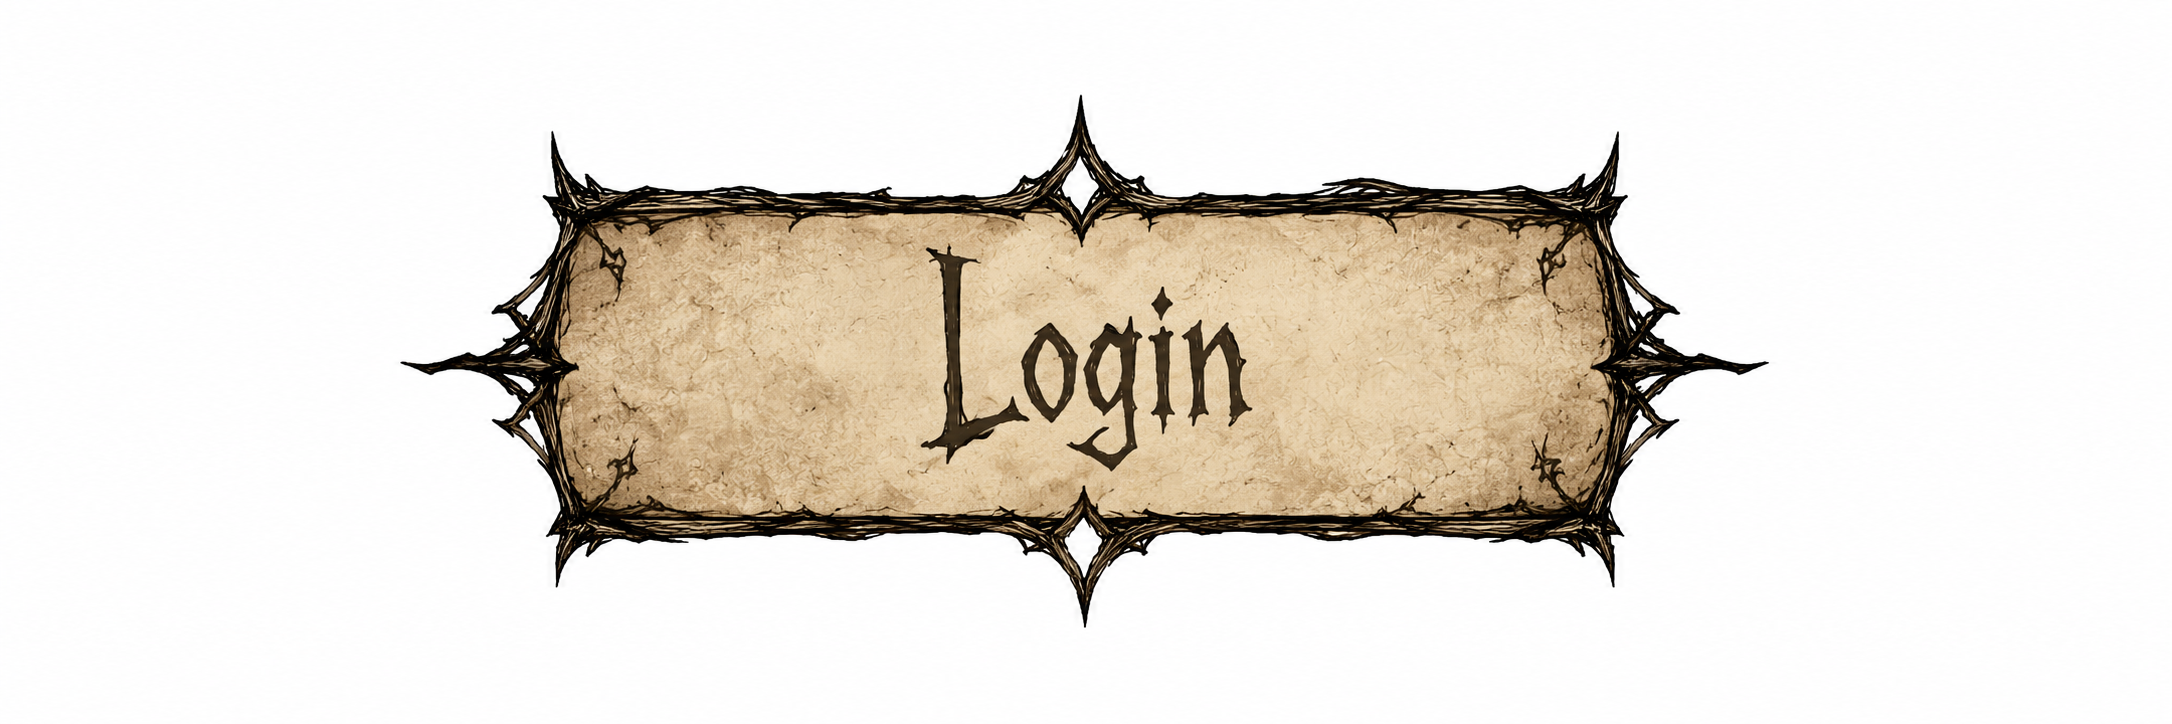
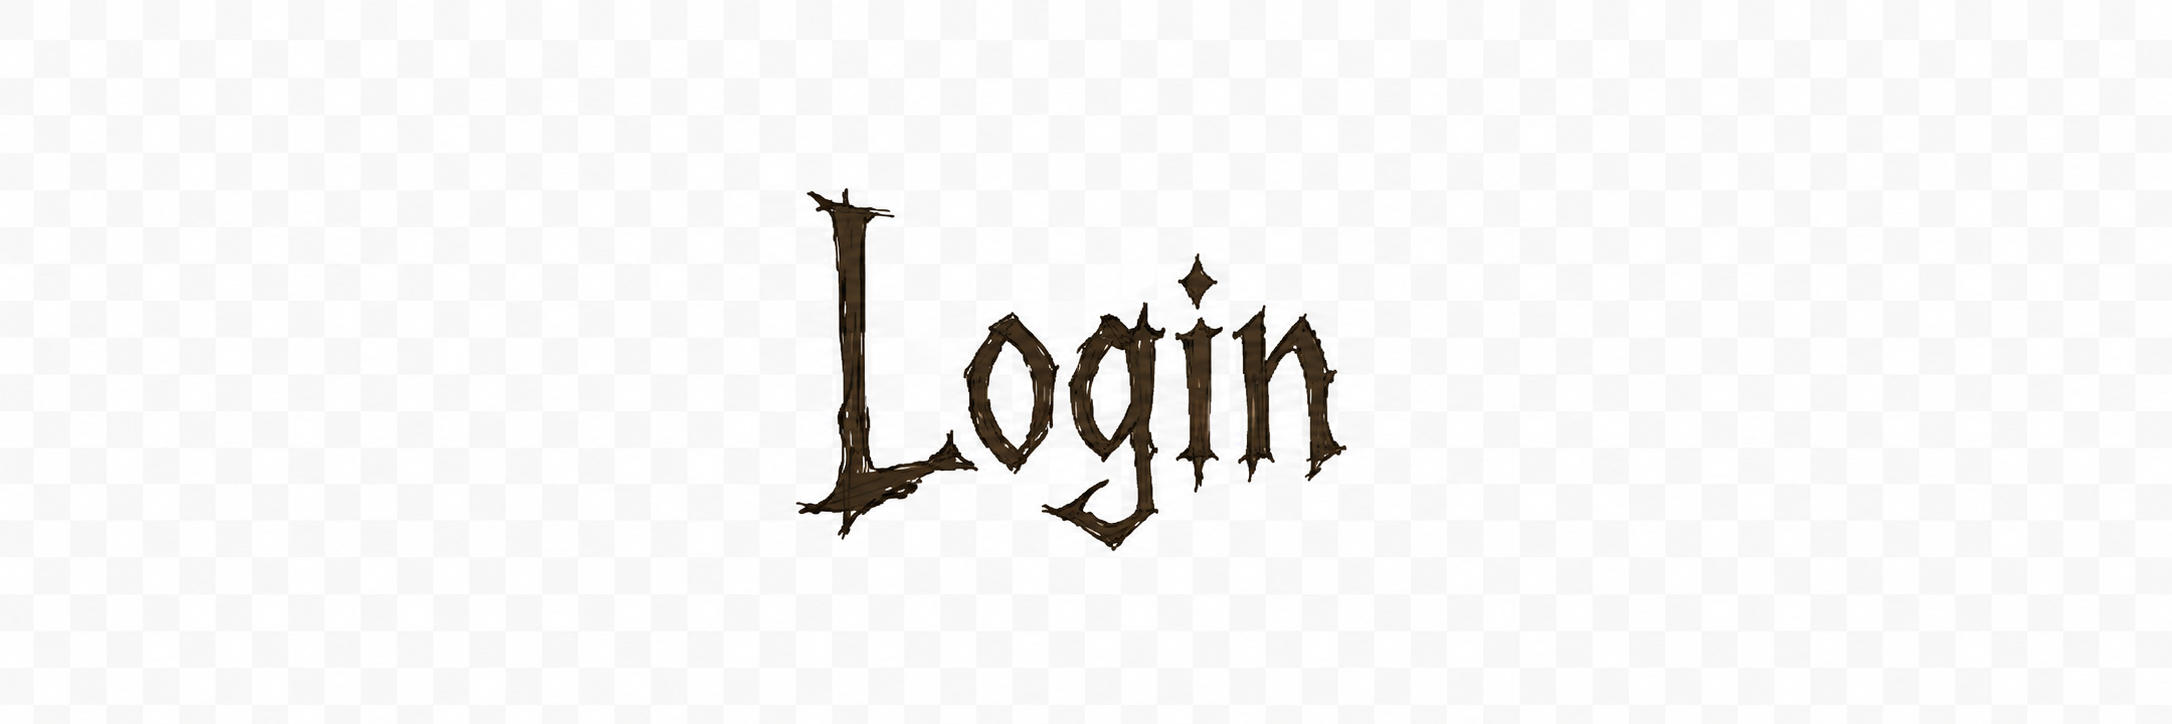
Polish partner menu blocks

Changed region(s): [[0.1851, 0.1519, 0.8329, 0.8508]]

diff --git a/layouts/hodgepodge/partner-menu.html b/layouts/hodgepodge/partner-menu.html
@@ -105,21 +105,22 @@
     }
     .menu-button-primary {
       background:
-        linear-gradient(rgba(255, 241, 204, 0.02), rgba(255, 241, 204, 0.02)),
-        url("{{ $menuData.login_button | relURL }}") center / 100% 100% no-repeat;
+        url("{{ $menuData.login_button | relURL }}") center / contain no-repeat;
+      aspect-ratio: 2172 / 724;
       border: 0;
       box-shadow: none;
       color: transparent;
       justify-self: stretch;
-      min-height: 58px;
+      min-height: 0;
       overflow: hidden;
+      padding: 0;
       text-shadow: none;
+      width: 100%;
     }
     .menu-button-primary:hover,
     .menu-button-primary:focus-visible {
       background:
-        linear-gradient(rgba(211, 162, 60, 0.18), rgba(211, 162, 60, 0.18)),
-        url("{{ $menuData.login_button | relURL }}") center / 100% 100% no-repeat;
+        url("{{ $menuData.login_button | relURL }}") center / contain no-repeat;
       box-shadow: none;
     }
     .menu-status {
@@ -133,10 +134,10 @@
     }
     .menu-app {
       background:
-        linear-gradient(135deg, rgba(255, 241, 204, 0.82), rgba(248, 229, 185, 0.52)),
-        radial-gradient(circle at 14% 10%, rgba(143, 34, 24, 0.08), transparent 24%),
-        radial-gradient(circle at 88% 18%, rgba(211, 162, 60, 0.12), transparent 28%);
-      border: 2px solid rgba(43, 27, 18, 0.34);
+        linear-gradient(135deg, rgba(255, 255, 255, 0.88), rgba(242, 242, 239, 0.7)),
+        radial-gradient(circle at 14% 10%, rgba(23, 17, 13, 0.04), transparent 24%),
+        radial-gradient(circle at 88% 18%, rgba(120, 120, 112, 0.08), transparent 28%);
+      border: 2px solid rgba(43, 27, 18, 0.24);
       border-radius: 8px;
       box-shadow: 5px 7px 0 rgba(23, 17, 13, 0.1);
       display: grid;
@@ -145,7 +146,7 @@
       position: relative;
     }
     .menu-app::before {
-      border: 2px solid rgba(43, 27, 18, 0.2);
+      border: 2px solid rgba(43, 27, 18, 0.16);
       border-radius: 8px;
       content: "";
       inset: 6px -7px -6px 6px;
@@ -160,7 +161,7 @@
       z-index: 1;
     }
     .menu-banner {
-      border: 2px solid rgba(43, 27, 18, 0.42);
+      border: 2px solid rgba(43, 27, 18, 0.28);
       border-radius: 8px;
       box-shadow: 3px 4px 0 rgba(23, 17, 13, 0.12);
       display: block;
@@ -230,10 +231,10 @@
     }
     .menu-category-head {
       align-items: center;
-      background: rgba(143, 34, 24, 0.82);
-      border: 2px solid rgba(43, 27, 18, 0.44);
+      background: rgba(246, 246, 244, 0.86);
+      border: 2px solid rgba(43, 27, 18, 0.3);
       border-radius: 8px;
-      color: var(--dst-bone);
+      color: var(--dst-black);
       display: grid;
       gap: 14px;
       grid-template-columns: 78px minmax(0, 1fr);
@@ -246,7 +247,7 @@
       width: 72px;
     }
     .menu-category-title {
-      color: var(--dst-bone);
+      color: var(--dst-black);
       font-size: 1.8rem;
       line-height: 1;
     }
@@ -257,21 +258,20 @@
     }
     .menu-dish {
       align-items: center;
-      background: rgba(255, 241, 204, 0.72);
-      border: 2px solid rgba(43, 27, 18, 0.42);
+      background: rgba(255, 255, 255, 0.78);
+      border: 2px solid rgba(43, 27, 18, 0.24);
       border-radius: 8px;
-      box-shadow: 3px 4px 0 rgba(23, 17, 13, 0.08);
+      box-shadow: 3px 4px 0 rgba(23, 17, 13, 0.06);
       color: var(--dst-black);
       display: flex;
-      gap: 12px;
       min-height: 74px;
       padding: 14px;
       transition: background-color 0.18s ease, box-shadow 0.18s ease, transform 0.18s ease;
     }
     .menu-dish:hover,
     .menu-dish:focus-within {
-      background: rgba(255, 230, 170, 0.86);
-      box-shadow: 4px 5px 0 rgba(23, 17, 13, 0.16);
+      background: rgba(235, 235, 231, 0.9);
+      box-shadow: 4px 5px 0 rgba(23, 17, 13, 0.1);
       transform: translateY(-2px) rotate(-0.45deg);
     }
     .menu-dish-title h3 {
@@ -279,12 +279,6 @@
       font-size: 1.22rem;
       line-height: 1.1;
       margin: 0;
-    }
-    .menu-dish-logo {
-      flex: 0 0 auto;
-      height: 44px;
-      object-fit: contain;
-      width: 44px;
     }
     @media (max-width: 760px) {
       .menu-category-nav {
@@ -382,7 +376,6 @@
           const dishes = (category.items || []).map(function (item) {
             return [
               "<article class='menu-dish'>",
-              "<img class='menu-dish-logo' src='" + escapeHtml(category.logo) + "' alt='' />",
               "<div class='menu-dish-title'><h3>" + escapeHtml(item.name) + "</h3></div>",
               "</article>"
             ].join("");
